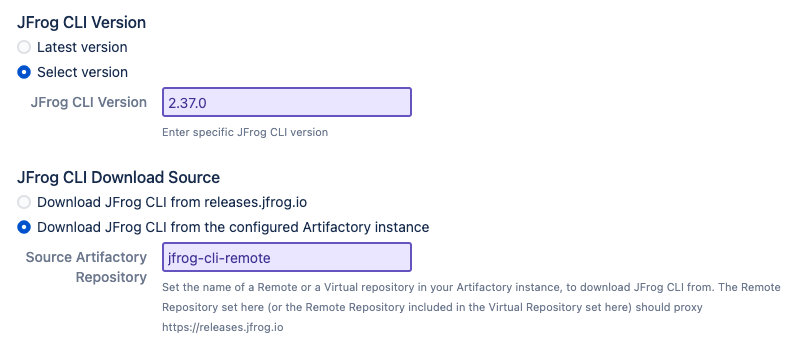
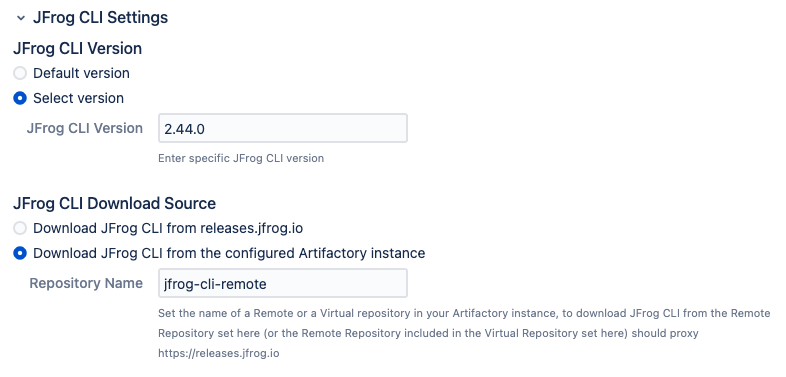
first commit

diff --git a/src/main/java/org/jfrog/bamboo/utils/BuildLog.java b/src/main/java/org/jfrog/bamboo/utils/BuildLog.java
@@ -1,63 +1,63 @@
 package org.jfrog.bamboo.utils;
 
 import com.atlassian.bamboo.build.logger.BuildLogger;
+import org.apache.logging.log4j.LogManager;
 import org.apache.logging.log4j.Logger;
+
+import static java.lang.String.format;
 
 /**
  * Wrapper for Bamboo build logger, records log messages from BuildInfo.
  */
 public class BuildLog implements org.jfrog.build.api.util.Log {
-    private static final String JFROG_PREFIX = "[JFrog Plugin] ";
-
-    private final Logger log;
+    private static final String JFROG_PREFIX = "JFrog Plugin";
+    private final Logger log = LogManager.getLogger(JFROG_PREFIX);
     private final BuildLogger buildLogger;
 
-    public BuildLog(Logger log) {
-        this(log, null);
+    public BuildLog() {
+        buildLogger = null;
     }
 
-    public BuildLog(Logger log, BuildLogger buildLogger) {
-        this.log = log;
+    public BuildLog(BuildLogger buildLogger) {
         this.buildLogger = buildLogger;
     }
 
     private String addPrefix(String message) {
-        return JFROG_PREFIX + message;
+        return format("[%s] %s", JFROG_PREFIX, message);
     }
 
     public void debug(String message) {
-        log.debug(addPrefix(message));
+        log.debug(message);
     }
 
     public void info(String message) {
-        String prefixedMessage = addPrefix(message);
         if (buildLogger != null) {
-            buildLogger.addBuildLogEntry(prefixedMessage);
+            buildLogger.addBuildLogEntry(addPrefix(message));
         }
-        log.info(prefixedMessage);
+        log.info(message);
     }
 
     public void warn(String message) {
-        String prefixedMessage = addPrefix(message);
         if (buildLogger != null) {
-            buildLogger.addBuildLogEntry(prefixedMessage);
+            buildLogger.addBuildLogEntry(addPrefix(message));
         }
-        log.warn(prefixedMessage);
+        log.warn(message);
     }
 
     public void error(String message) {
         String prefixedMessage = addPrefix(message);
         if (buildLogger != null) {
-            buildLogger.addErrorLogEntry(prefixedMessage);
+            buildLogger.addErrorLogEntry(addPrefix(message));
         }
         log.error(prefixedMessage);
     }
 
-    public void error(String message, Throwable e) {
+    @Override
+    public void error(String message, Throwable throwable) {
         String prefixedMessage = addPrefix(message);
         if (buildLogger != null) {
-            buildLogger.addErrorLogEntry(prefixedMessage, e);
+            buildLogger.addErrorLogEntry(addPrefix(message), throwable);
         }
-        log.error(prefixedMessage, e);
+        log.error(prefixedMessage, throwable);
     }
 }

diff --git a/src/main/java/org/jfrog/bamboo/JfTask.java b/src/main/java/org/jfrog/bamboo/JfTask.java
@@ -12,8 +12,6 @@ import com.atlassian.bamboo.variable.CustomVariableContext;
 import com.atlassian.plugin.PluginAccessor;
 import org.apache.commons.lang.StringUtils;
 import org.apache.commons.lang.exception.ExceptionUtils;
-import org.apache.logging.log4j.LogManager;
-import org.apache.logging.log4j.Logger;
 import org.jetbrains.annotations.NotNull;
 import org.jfrog.bamboo.config.ServerConfig;
 import org.jfrog.bamboo.config.ServerConfigManager;
@@ -36,7 +34,6 @@ import java.util.stream.Collectors;
  * JFrog CLI Task.
  */
 public class JfTask extends JfContext implements TaskType {
-    private static final Logger log = LogManager.getLogger(JfTask.class);
     private BuildLog buildLog;
     private ServerConfigManager serverConfigManager;
     private ExecutableRunner commandRunner;
@@ -53,7 +50,7 @@ public class JfTask extends JfContext implements TaskType {
      */
     @Override
     public @NotNull TaskResult execute(final @NotNull TaskContext taskContext) {
-        buildLog = new BuildLog(log, taskContext.getBuildLogger());
+        buildLog = new BuildLog(taskContext.getBuildLogger());
         serverConfigManager = ServerConfigManager.getInstance();
         ConfigurationMap confMap = taskContext.getConfigurationMap();
         TaskResultBuilder resultBuilder = TaskResultBuilder.newBuilder(taskContext);
@@ -72,7 +69,8 @@ public class JfTask extends JfContext implements TaskType {
             Map<String, String> envs = createJfrogEnvironmentVariables(taskContext.getBuildContext(), selectedServerConfig);
             File workingDir = getWorkingDirectory(confMap.get(JF_TASK_WORKING_DIRECTORY), taskContext.getWorkingDirectory());
             buildLog.info("Working directory: " + workingDir);
-            commandRunner = new ExecutableRunner(jfExecutablePath, workingDir, envs, buildLog);
+            List<String> secrets = List.of(selectedServerConfig.getPassword(), selectedServerConfig.getAccessToken());
+            commandRunner = new ExecutableRunner(jfExecutablePath, workingDir, envs, secrets, buildLog);
 
             // Run 'jf config add' and 'jf config use' commands.
             int exitCode = configAllJFrogServers();
@@ -144,7 +142,6 @@ public class JfTask extends JfContext implements TaskType {
                 return "";
             }
         };
-
         jfEnvs.put("JFROG_CLI_SERVER_ID", serverConfig.getServerId());
         jfEnvs.put("JFROG_CLI_BUILD_NAME", buildContext.getPlanName());
         jfEnvs.put("JFROG_CLI_BUILD_NUMBER", String.valueOf(buildContext.getBuildNumber()));

diff --git a/src/main/java/org/jfrog/bamboo/JfInstaller.java b/src/main/java/org/jfrog/bamboo/JfInstaller.java
@@ -19,6 +19,7 @@ import java.nio.file.Paths;
  */
 public class JfInstaller {
     private static final String RELEASE = "[RELEASE]";
+    private static final String DEFAULT_CLI_VERSION = "2.44.0";
     public static final String RELEASES_URL = "https://releases.jfrog.io";
     public static final String BINARY_NAME = "jf";
     private static final String SHA256_FILE_NAME = "sha256";
@@ -63,16 +64,16 @@ public class JfInstaller {
      */
     public static String getJfExecutable(final ServerConfig serverConfig, String jfrogTmpDir, BuildLog buildLog) throws IOException {
         buildLog.info("Getting JFrog CLI executable...");
+        boolean downloadFromReleases = StringUtils.isBlank(serverConfig.getCliRepository());
 
         // An empty string indicates the latest version.
-        String version = StringUtils.defaultIfBlank(serverConfig.getCliVersion(), RELEASE);
+        String version = StringUtils.defaultIfBlank(serverConfig.getCliVersion(), downloadFromReleases ? RELEASE : DEFAULT_CLI_VERSION);
 
         Path executableLocation = getJfrogExecutableDirectory(jfrogTmpDir, version);
         String binaryName = getJfrogCliBinaryName();
         String executableFullPath = Paths.get(executableLocation.toString(), binaryName).toString();
 
         // Decide whether to download CLI from releases.jfrog.io or from Artifactory
-        boolean downloadFromReleases = StringUtils.isBlank(serverConfig.getCliRepository());
         String downloadSourceUrl = downloadFromReleases ? RELEASES_URL : serverConfig.getUrl();
 
         // Downloading executable from Artifactory
@@ -87,7 +88,6 @@ public class JfInstaller {
                 // Should download from configured server. (example: myRepo/artifactory/jfrog-cli/v2-jf/2.37.0/jfrog-cli-mac-386/jf)
                 cliUrlSuffix = String.format("/%s/artifactory%s", serverConfig.getCliRepository(), cliUrlSuffix);
             }
-
             // Getting updated CLI binary's sha256 from Artifactory.
             String artifactorySha256 = manager.downloadHeader(cliUrlSuffix, DownloadResponse.SHA256_HEADER_NAME);
             // Check whether it's needed to download a new executable or it already exists on the agent.

diff --git a/src/main/java/org/jfrog/bamboo/utils/ExecutableRunner.java b/src/main/java/org/jfrog/bamboo/utils/ExecutableRunner.java
@@ -1,5 +1,7 @@
 package org.jfrog.bamboo.utils;
 
+import org.apache.commons.lang.StringUtils;
+
 import java.io.BufferedReader;
 import java.io.File;
 import java.io.IOException;
@@ -16,6 +18,8 @@ public class ExecutableRunner {
     private final String executable;
     private final Map<String, String> envs;
     private final BuildLog buildLog;
+    private final List<String> secrets;
+
 
     /**
      * Constructs an ExecutableRunner object.
@@ -25,11 +29,12 @@ public class ExecutableRunner {
      * @param envs       Additional environment variables to set for the command execution.
      * @param buildLog   The logger for capturing command output and logs.
      */
-    public ExecutableRunner(String executable, File workingDir, Map<String, String> envs, BuildLog buildLog) {
+    public ExecutableRunner(String executable, File workingDir, Map<String, String> envs, List<String> secrets, BuildLog buildLog) {
         this.executable = executable;
         this.workingDir = workingDir;
         this.envs = envs;
         this.buildLog = buildLog;
+        this.secrets = secrets;
     }
 
     /**
@@ -56,7 +61,7 @@ public class ExecutableRunner {
         try (BufferedReader reader = new BufferedReader(new InputStreamReader(process.getInputStream()))) {
             String line;
             while ((line = reader.readLine()) != null) {
-                buildLog.info(line);
+                buildLog.info(maskSecrets(line));
             }
         }
 
@@ -74,7 +79,14 @@ public class ExecutableRunner {
      * @return The argument string with masked secrets.
      */
     private String maskSecrets(String arg) {
-        return arg.replaceAll("--password=\\S+", "--password=***")
-                .replaceAll("--access-token=\\S+", "--access-token=***");
+        if (secrets != null && !secrets.isEmpty()) {
+            for (String secret : secrets) {
+                if (StringUtils.isNotBlank(secret)) {
+                    arg = arg.replaceAll(secret, "***");
+                }
+            }
+        }
+        String regex = "--(password|access-token)=\\S+";
+        return arg.replaceAll(regex, "--$1=***");
     }
 }

diff --git a/src/main/java/org/jfrog/bamboo/config/JfrogServerConfigAction.java b/src/main/java/org/jfrog/bamboo/config/JfrogServerConfigAction.java
@@ -144,7 +144,7 @@ public class JfrogServerConfigAction extends BambooActionSupport implements Glob
 
     private void testConnection() {
         ServerConfig serverConfig = createServerConfig();
-        try (ArtifactoryManager manager = new ArtifactoryManager(serverConfig.getUrl() + "/artifactory", serverConfig.getUsername(), serverConfig.getPassword(), serverConfig.getAccessToken(), new BuildLog(log))) {
+        try (ArtifactoryManager manager = new ArtifactoryManager(serverConfig.getUrl() + "/artifactory", serverConfig.getUsername(), serverConfig.getPassword(), serverConfig.getAccessToken(), new BuildLog())) {
             ArtifactoryVersion rtVersion = manager.getVersion();
             if (rtVersion == null || rtVersion.equals(ArtifactoryVersion.NOT_FOUND)) {
                 addActionError("Couldn't reach JFrog Artifactory server");
@@ -164,7 +164,7 @@ public class JfrogServerConfigAction extends BambooActionSupport implements Glob
                 authType.equals(AUTH_TYPE_BASIC) ? username : "",
                 authType.equals(AUTH_TYPE_BASIC) ? password : "",
                 authType.equals(AUTH_TYPE_TOKEN) ? accessToken : "",
-                specificVersion ? cliVersion : "",
+                specificVersion ? StringUtils.removeStart(cliVersion, "v") : "",
                 fromArtifactory ? cliRepository : ""
         );
     }

diff --git a/src/main/java/org/jfrog/bamboo/utils/Utils.java b/src/main/java/org/jfrog/bamboo/utils/Utils.java
@@ -4,6 +4,7 @@ import com.fasterxml.jackson.annotation.JsonInclude;
 import com.fasterxml.jackson.databind.DeserializationFeature;
 import com.fasterxml.jackson.databind.ObjectMapper;
 import com.fasterxml.jackson.databind.SerializationFeature;
+import org.apache.commons.lang.StringUtils;
 
 import java.util.ArrayList;
 import java.util.List;
